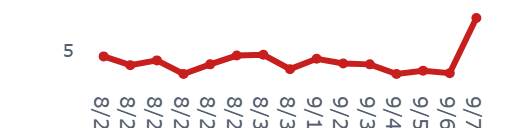
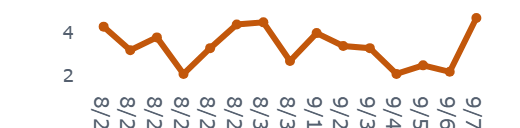
auto: refresh static dashboard (2026-09-07 01:02:19 JST)

diff --git a/docs/index.html b/docs/index.html
@@ -125,11 +125,11 @@
         <span class="price">54,460円</span>
         <span class="chg" style="color:#8B94A3">—</span>
       </div>
-      <p class="caption">更新時刻: 2026-09-07T00:40:05（データは1分間隔で自動生成され、このページも
+      <p class="caption">更新時刻: 2026-09-07T01:00:35（データは1分間隔で自動生成され、このページも
       60秒毎に自動再読み込みされます）</p>
       
       <p id='visit-count-badge' class='caption' style='display:none'></p>
-      <p id='like-button-wrap' class='caption'><button id='like-button' type='button' style='cursor:pointer;border:1px solid var(--border);border-radius:6px;padding:1px 10px;margin-right:6px;background:var(--panel);color:var(--text);font-size:1em;vertical-align:middle'>👍</button><span id='like-count-label'>このダッシュボードが役に立ったら押してください（累計 3 いいね）</span></p>
+      <p id='like-button-wrap' class='caption' style='display:none'></p>
 
       <h2>🔥😱 2大メーター・ボラレジーム</h2>
       <div class="grid3">
@@ -165,14 +165,14 @@
       <h2>🎯 シグナル発火状況（9指標）</h2>
       <p class="caption">掲示板の投稿を集計した9つの指標が、統計的なしきい値を超えたかどうかを示す一覧です。
       「発火」は売買のシグナルではなく、「統計的に見て平常時より偏りが大きい状態」を示す記述的な警告ラベルです。</p>
-      <div class='info-box'>📌 前回の取引日(2026-09-06)からの状態変化: 「灼熱メーター(過熱)」発火→OK、「イナゴ語彙(euphoria)」警戒→OK、「ネームド集中」警戒→OK、「暴落煽り語彙」OK→発火</div>
-      <div class="panel"><div class='signal-row'><div class='signal-name'>灼熱メーター(過熱)<div class='signal-desc'>掲示板全体の強気/弱気の偏りと投稿の勢いから算出した「過熱度」の合成指標。</div></div><div class='signal-meta'><div class='signal-note'>過熱スコア3.2 (閾値36)</div><div><span style='display:inline-block;border-radius:999px;padding:2px 10px;font-size:.82em;font-weight:600;color:#fff;background:#15803D;white-space:nowrap'>OK (現在値3.20 / 閾値&gt;36)</span></div><div class='signal-spark'><figure><img src='images/spark_signal_0.png' alt='灼熱メーター(過熱)の推移' loading='lazy'></figure></div></div></div>
+      <div class='info-box'>📌 前回の取引日(2026-09-06)からの状態変化: 「灼熱メーター(過熱)」発火→OK、「ネームド集中」警戒→発火、「暴落煽り語彙」OK→警戒</div>
+      <div class="panel"><div class='signal-row'><div class='signal-name'>灼熱メーター(過熱)<div class='signal-desc'>掲示板全体の強気/弱気の偏りと投稿の勢いから算出した「過熱度」の合成指標。</div></div><div class='signal-meta'><div class='signal-note'>過熱スコア24.2 (閾値36)</div><div><span style='display:inline-block;border-radius:999px;padding:2px 10px;font-size:.82em;font-weight:600;color:#fff;background:#15803D;white-space:nowrap'>OK (現在値24.20 / 閾値&gt;36)</span></div><div class='signal-spark'><figure><img src='images/spark_signal_0.png' alt='灼熱メーター(過熱)の推移' loading='lazy'></figure></div></div></div>
 <div class='signal-row'><div class='signal-name'>そう思う大量票<div class='signal-desc'>Yahoo!掲示板の「そう思う」共感ボタンが1投稿に集中して大量に押されているか。</div></div><div class='signal-meta'><div class='signal-note'>そう思う最大12票 (95超=過熱)</div><div><span style='display:inline-block;border-radius:999px;padding:2px 10px;font-size:.82em;font-weight:600;color:#fff;background:#15803D;white-space:nowrap'>OK (現在値12 / 閾値&gt;=95)</span></div><div class='signal-spark'><figure><img src='images/spark_signal_1.png' alt='そう思う大量票の推移' loading='lazy'></figure></div></div></div>
-<div class='signal-row'><div class='signal-name'>イナゴ語彙(euphoria)<div class='signal-desc'>「爆上げ」「握力」等、熱狂・便乗を示す語彙が投稿にどれだけ含まれるか。</div></div><div class='signal-meta'><div class='signal-note'>euphoria指数0.0/100投稿</div><div><span style='display:inline-block;border-radius:999px;padding:2px 10px;font-size:.82em;font-weight:600;color:#fff;background:#15803D;white-space:nowrap'>OK (現在値0.00 / 閾値&gt;=5.5/100投稿)</span></div><div class='signal-spark'><figure><img src='images/spark_signal_2.png' alt='イナゴ語彙(euphoria)の推移' loading='lazy'></figure></div></div></div>
-<div class='signal-row'><div class='signal-name'>ネームド集中<div class='signal-desc'>特定の常連投稿者(ハッシュ化ID)に投稿が偏っていないか(少数の声が目立ちすぎていないか)。</div></div><div class='signal-meta'><div class='signal-note'>標本不足(n=22&lt;30)=非表示</div><div><span style='display:inline-block;border-radius:999px;padding:2px 10px;font-size:.82em;font-weight:600;color:#fff;background:#15803D;white-space:nowrap'>OK (現在値— / 閾値&gt;=0.1)</span></div><div class='signal-spark'><figure><img src='images/spark_signal_3.png' alt='ネームド集中の推移' loading='lazy'></figure></div></div></div>
-<div class='signal-row'><div class='signal-name'>他銘柄混入率<div class='signal-desc'>本銘柄の掲示板で他の銘柄コードへの言及がどれだけ多いか(関心が他へ移りつつあるサイン)。</div></div><div class='signal-meta'><div class='signal-note'>他銘柄言及0% (関心離散のサイン)</div><div><span style='display:inline-block;border-radius:999px;padding:2px 10px;font-size:.82em;font-weight:600;color:#fff;background:#15803D;white-space:nowrap'>OK (現在値0.00 / 閾値&gt;=0.11)</span></div><div class='signal-spark'><figure><img src='images/spark_signal_4.png' alt='他銘柄混入率の推移' loading='lazy'></figure></div></div></div>
-<div class='signal-row'><div class='signal-name'>暴落煽り語彙<div class='signal-desc'>「暴落」「終わった」等、悲観・煽りを示す語彙が投稿にどれだけ含まれるか。</div></div><div class='signal-meta'><div class='signal-note'>煽り指数9.1/100投稿</div><div><span style='display:inline-block;border-radius:999px;padding:2px 10px;font-size:.82em;font-weight:600;color:#fff;background:#C81E1E;white-space:nowrap'>発火 (現在値9.10 / 閾値&gt;=5.0/100投稿)</span></div><div class='signal-spark'><figure><img src='images/spark_signal_5.png' alt='暴落煽り語彙の推移' loading='lazy'></figure></div></div></div>
-<div class='signal-row'><div class='signal-name'>阿鼻叫喚(セリクラ)<div class='signal-desc'>株価が安値圏にある中で悲観語彙が急増しているか(セリングクライマックスの兆候)。</div></div><div class='signal-meta'><div class='signal-note'>阿鼻叫喚スコア13.8 安値圏外</div><div><span style='display:inline-block;border-radius:999px;padding:2px 10px;font-size:.82em;font-weight:600;color:#fff;background:#15803D;white-space:nowrap'>OK (現在値13.80 / 閾値&gt;30)</span></div><div class='signal-spark'><figure><img src='images/spark_signal_6.png' alt='阿鼻叫喚(セリクラ)の推移' loading='lazy'></figure></div></div></div>
+<div class='signal-row'><div class='signal-name'>イナゴ語彙(euphoria)<div class='signal-desc'>「爆上げ」「握力」等、熱狂・便乗を示す語彙が投稿にどれだけ含まれるか。</div></div><div class='signal-meta'><div class='signal-note'>euphoria指数4.7/100投稿</div><div><span style='display:inline-block;border-radius:999px;padding:2px 10px;font-size:.82em;font-weight:600;color:#fff;background:#C2570B;white-space:nowrap'>警戒 (現在値4.70 / 閾値&gt;=5.5/100投稿)</span></div><div class='signal-spark'><figure><img src='images/spark_signal_2.png' alt='イナゴ語彙(euphoria)の推移' loading='lazy'></figure></div></div></div>
+<div class='signal-row'><div class='signal-name'>ネームド集中<div class='signal-desc'>特定の常連投稿者(ハッシュ化ID)に投稿が偏っていないか(少数の声が目立ちすぎていないか)。</div></div><div class='signal-meta'><div class='signal-note'>上位5人シェア26%</div><div><span style='display:inline-block;border-radius:999px;padding:2px 10px;font-size:.82em;font-weight:600;color:#fff;background:#C81E1E;white-space:nowrap'>発火 (現在値0.26 / 閾値&gt;=0.1)</span></div><div class='signal-spark'><figure><img src='images/spark_signal_3.png' alt='ネームド集中の推移' loading='lazy'></figure></div></div></div>
+<div class='signal-row'><div class='signal-name'>他銘柄混入率<div class='signal-desc'>本銘柄の掲示板で他の銘柄コードへの言及がどれだけ多いか(関心が他へ移りつつあるサイン)。</div></div><div class='signal-meta'><div class='signal-note'>他銘柄言及2% (関心離散のサイン)</div><div><span style='display:inline-block;border-radius:999px;padding:2px 10px;font-size:.82em;font-weight:600;color:#fff;background:#15803D;white-space:nowrap'>OK (現在値0.02 / 閾値&gt;=0.11)</span></div><div class='signal-spark'><figure><img src='images/spark_signal_4.png' alt='他銘柄混入率の推移' loading='lazy'></figure></div></div></div>
+<div class='signal-row'><div class='signal-name'>暴落煽り語彙<div class='signal-desc'>「暴落」「終わった」等、悲観・煽りを示す語彙が投稿にどれだけ含まれるか。</div></div><div class='signal-meta'><div class='signal-note'>煽り指数4.7/100投稿</div><div><span style='display:inline-block;border-radius:999px;padding:2px 10px;font-size:.82em;font-weight:600;color:#fff;background:#C2570B;white-space:nowrap'>警戒 (現在値4.70 / 閾値&gt;=5.0/100投稿)</span></div><div class='signal-spark'><figure><img src='images/spark_signal_5.png' alt='暴落煽り語彙の推移' loading='lazy'></figure></div></div></div>
+<div class='signal-row'><div class='signal-name'>阿鼻叫喚(セリクラ)<div class='signal-desc'>株価が安値圏にある中で悲観語彙が急増しているか(セリングクライマックスの兆候)。</div></div><div class='signal-meta'><div class='signal-note'>阿鼻叫喚スコア0.0 安値圏外</div><div><span style='display:inline-block;border-radius:999px;padding:2px 10px;font-size:.82em;font-weight:600;color:#fff;background:#15803D;white-space:nowrap'>OK (現在値0.00 / 閾値&gt;30)</span></div><div class='signal-spark'><figure><img src='images/spark_signal_6.png' alt='阿鼻叫喚(セリクラ)の推移' loading='lazy'></figure></div></div></div>
 <div class='signal-row'><div class='signal-name'>話題枯れ<div class='signal-desc'>過去の平均と比べて本日の投稿数が著しく少ないか(閑散・関心低下のサイン)。</div></div><div class='signal-meta'><div class='signal-note'>投稿数z=-1.24 (負=閑散)</div><div><span style='display:inline-block;border-radius:999px;padding:2px 10px;font-size:.82em;font-weight:600;color:#fff;background:#C81E1E;white-space:nowrap'>発火 (現在値-1.24 / 閾値z&lt;-1)</span></div><div class='signal-spark'><figure><img src='images/spark_signal_7.png' alt='話題枯れの推移' loading='lazy'></figure></div></div></div>
 <div class='signal-row'><div class='signal-name'>投稿サージ<div class='signal-desc'>過去の平均と比べて本日の投稿数が著しく多いか(急な注目集中のサイン)。</div></div><div class='signal-meta'><div class='signal-note'>投稿数z=-1.24 (量→ボラ予測が文献の主結果)</div><div><span style='display:inline-block;border-radius:999px;padding:2px 10px;font-size:.82em;font-weight:600;color:#fff;background:#15803D;white-space:nowrap'>OK (現在値-1.24 / 閾値z&gt;2)</span></div><div class='signal-spark'><figure><img src='images/spark_signal_8.png' alt='投稿サージの推移' loading='lazy'></figure></div></div></div></div>
       <p class="caption">※研究・エンタメ用途・未検証。売買シグナルではありません。
@@ -219,24 +219,24 @@
       </div>
 
       <h2>🤖 AI考察</h2>
-      <div class='metric-row'><div class='metric-card'><div class='metric-label'>株価</div><div class='metric-value'>54,460円</div><div class='metric-delta'>+0円</div></div><div class='metric-card'><div class='metric-label'>強気比率</div><div class='metric-value'>38.5%</div><div class='metric-delta'>+13.5pt</div></div><div class='metric-card'><div class='metric-label'>弱気比率</div><div class='metric-value'>53.8%</div><div class='metric-delta'>-21.2pt</div></div></div><p class='caption'>前回集計(2026-09-07T00:23:22)との比較</p>
-      <div class='ai-box'>本レポートは、掲示板の集計センチメントデータに基づく分析であり、投資助言ではありません。<br>
+      <div class='metric-row'><div class='metric-card'><div class='metric-label'>株価</div><div class='metric-value'>54,460円</div><div class='metric-delta'>+0円</div></div><div class='metric-card'><div class='metric-label'>強気比率</div><div class='metric-value'>46.2%</div><div class='metric-delta'>+7.7pt</div></div><div class='metric-card'><div class='metric-label'>弱気比率</div><div class='metric-value'>46.2%</div><div class='metric-delta'>-7.6pt</div></div></div><p class='caption'>前回集計(2026-09-07T00:40:05)との比較</p>
+      <div class='ai-box'>本日の寄り付きを前にしたキオクシアホールディングス（285A）の掲示板センチメントを集計・分析しました。<br>
 <br>
-キオクシアホールディングス（285A）の寄り付き前におけるセンチメント状況を分析します。<br>
+直近の取引日における価格推移と、それに対する投資家の反応には特筆すべき変化が見られます。前営業日の終値（54,460.0円）に対し、PTSや米国ADRでは約6%以上のプラス圏で推移しており、時間外での関心の高まりが示唆されています。<br>
 <br>
-直近の価格推移と掲示板の反応を照らし合わせると、非常に興味深い乖離が見て取れます。前営業日の終値を基準とした現在の価格は54,460円ですが、PTS（私設取引システム）および米国ADRでは約6.3%〜6.4%の上昇を見せています。この時間外でのポジティブな動きに対し、掲示板のセンチメントは複雑な様相を呈しています。<br>
+掲示板のセンチメントを分析すると、前回集計時点から短時間のうちに投稿数が21件増加し、強気比率が38.5%から46.2%へと大きく改善している点が注目されます。この急激な変化は、価格そのものの動きよりも、時間外取引でのポジティブな反応を捉えた投資家たちの心理的な機運の変化を反映している可能性があります。<br>
 <br>
-前回集計時点（同日00:23）と比較すると、わずか15分ほどの間に強気比率が25.0%から38.5%へと大幅に改善し、投稿数も増加しています。しかし、依然として弱気比率（53.8%）が上回っており、時間外の価格上昇を完全には織り込めていない、あるいは慎重な姿勢を維持する層が多いことが推察されます。<br>
+一方で、シグナル発火状況にはいくつかの特異な偏りが見られます。「ネームド集中」が発火しており、特定の主要な投稿者が議論の大きなシェアを占めていることがわかります。また、「話題枯れ」も同時に発火していることから、新規の話題や広範な層による活発な議論というよりは、限定的な主体による継続的な発信によってセンチメントが形成されている状況が推測されます。さらに「暴落煽り語彙」と「イナゴ語彙（euphoria）」の両方が警戒水準にあることは、一部で過度な期待や不安を煽るような極端な表現が混在していることを示しています。<br>
 <br>
-特筆すべきはシグナル発火状況です。「暴落煽り語彙」が発火している一方で、「灼熱メーター（過熱）」や「イナゴ語彙」は平常範囲内（OK）に留まっています。この組み合わせから、掲示板上では強気な勢力による買いの熱狂よりも、弱気派によるネガティブな言及や、価格変動に対する警戒感に基づく煽り的な反応が目立っている可能性が考えられます。また、「話題枯れ」も発火しており、投稿数自体は少ないため、特定の層による極端な意見の対立が統計的な偏りを生んでいる状況と言えます。<br>
+ボラティリティのレジームは現在「calibrating（較正中）」となっており、現在のセンチメントの強さに対して市場の変動幅がまだ確定していない不安定なフェーズにあります。過熱度スコアは24.2と閾値を下回っており、掲示板上の反応は決して「過熱」した状態ではありませんが、ネームド集中や煽り語彙の警戒水準を併せて考えると、特定の層による強い主張がセンチメントを牽引している構図が見て取れます。<br>
 <br>
-ボラティリティ・レジームについては現在「calibrating（較正中）」となっており、現在のセンチメントの強弱を測るための標準的な基準が確定していない段階です。前営業日からの変化として、過熱度やイナゴ語彙などの過熱を示す指標が改善しつつも、煽り語彙のみが発火している点は、市場の関心が「楽観」よりも「警戒と反応」に寄っていることを示唆しています。<br>
+本日の値動きの型は事後的に「トレンド型」と分類されており、予測の不確実性は「普段並み」です。これまでの日次推移では強気・弱気の比率が激しく入れ替わってきましたが、直近では強気派へのシフトが見られ、時間外の動きと相まって、寄り付きに向けた投資家の関心が特定の方向に集中し始めている状況と言えます。<br>
 <br>
-本日の値動きの型は「トレンド型」と分類され、予測の不確実性は「普段並み」です。時間外での大幅な上昇という事実に対し、掲示板上では過熱感よりも、慎重さと一部のネガティブな反応が混在する、静かながらも緊張感のあるセンチメントが観察されます。</div><p class='caption'>生成時刻: 2026-09-07T00:40:05</p>
+本分析は掲示板の集計センチメントデータに基づく分析であり、投資助言ではありません。</div><p class='caption'>生成時刻: 2026-09-07T01:00:35</p>
 
       <hr style="border:none;border-top:1px solid var(--border);margin:2rem 0 1rem">
       <p class="caption">⚠ 本情報は掲示板投稿を統計的に集計したものであり、投資助言ではありません。個別の投稿内容は含まれていません。研究・エンタメ用途です。</p>
-      <footer>生成: generate_static_dashboard.py（2026-09-07T01:01:20） /
+      <footer>生成: generate_static_dashboard.py（2026-09-07T01:02:02） /
       画像バックエンド: plotly+kaleido</footer>
     </div>
     <script>(function(){var url="https://script.google.com/macros/s/AKfycbwgSSGQ2n56ohmIYKlNDA1Xe3D8hd3GJbD0U90L4DGtXdb8pqrPokNMHJWjvN1__7bE/exec";var KEY='bbs_visit_counted';var already=sessionStorage.getItem(KEY);var action=already?'read':'hit';var ctrl=(typeof AbortController!=='undefined')?new AbortController():null;var timer=ctrl?setTimeout(function(){ctrl.abort();},5000):null;fetch(url+'?action='+action,{signal:ctrl?ctrl.signal:undefined}).then(function(r){if(timer)clearTimeout(timer);return r.json();}).then(function(data){if(!already)sessionStorage.setItem(KEY,'1');if(data&&typeof data.count==='number'){var el=document.getElementById('visit-count-badge');if(el){el.textContent='\u{1F440} \u7d2f\u8a08\u95b2\u89a7\u6570: '+data.count.toLocaleString();el.style.display='';}}}).catch(function(e){if(timer)clearTimeout(timer);console.warn('visit counter fetch failed (fail-soft):',e);});})();</script><script>(function(){var url="https://script.google.com/macros/s/AKfycbwgSSGQ2n56ohmIYKlNDA1Xe3D8hd3GJbD0U90L4DGtXdb8pqrPokNMHJWjvN1__7bE/exec";var KEY='bbs_liked';var btn=document.getElementById('like-button');var label=document.getElementById('like-count-label');if(!btn||!label)return;function renderLiked(count){btn.disabled=true;btn.style.cursor='default';btn.style.opacity='0.6';btn.textContent='\u2705';label.textContent="\u3044\u3044\u306d\u3057\u307e\u3057\u305f\uff01"+(typeof count==='number'?"\uff08\u7d2f\u8a08 "+count.toLocaleString()+" \u3044\u3044\u306d\uff09":'');}if(localStorage.getItem(KEY)){renderLiked(null);}btn.addEventListener('click',function(){if(localStorage.getItem(KEY))return;btn.disabled=true;var ctrl=(typeof AbortController!=='undefined')?new AbortController():null;var timer=ctrl?setTimeout(function(){ctrl.abort();},5000):null;fetch(url+'?action=like_hit',{signal:ctrl?ctrl.signal:undefined}).then(function(r){if(timer)clearTimeout(timer);return r.json();}).then(function(data){localStorage.setItem(KEY,'1');renderLiked(data&&typeof data.count==='number'?data.count:null);}).catch(function(e){if(timer)clearTimeout(timer);btn.disabled=false;console.warn('like button fetch failed (fail-soft):',e);});});})();</script></body></html>
